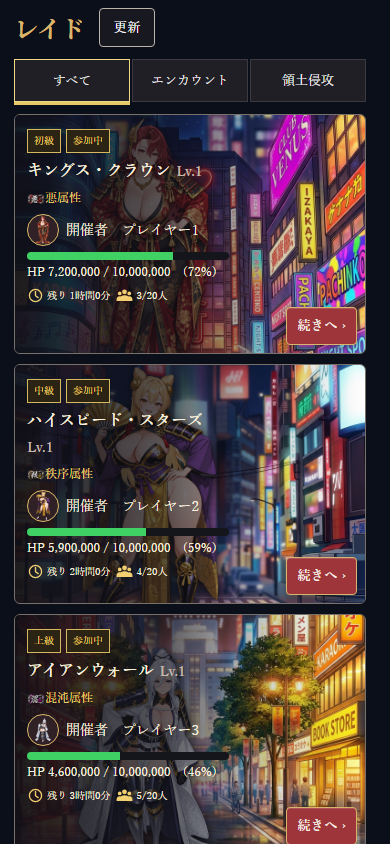
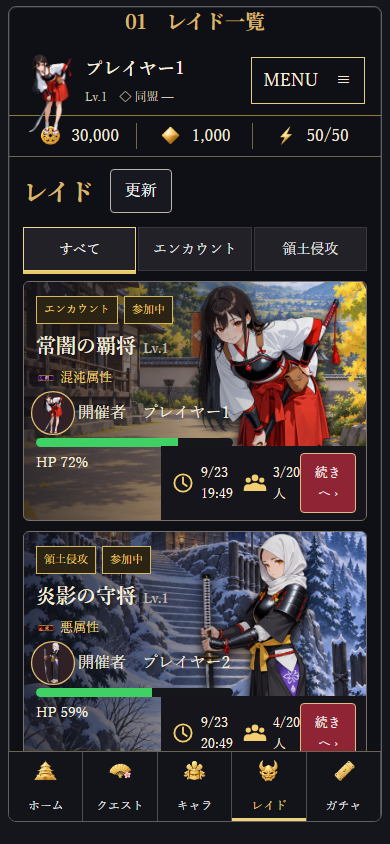
fix: connect raid UI to GAME04 redesign master

diff --git a/src/app/qa/raid-detail/RaidDetailHarness.tsx b/src/app/qa/raid-detail/RaidDetailHarness.tsx
@@ -26,7 +26,7 @@ export default function RaidDetailHarness(){
  const openProfile=async(userId:string)=>{if(scenario==='profile-error'){setProfileError(true);throw Error('QA profile failure');}setProfile(userId);};
  const openPresents=()=>{setKind(null);setDestination('通常プレゼントBOXへの受け渡し確認');};
  return <GameContext.Provider value={context}><main className="raid-detail-qa"><header className="raid-detail-qa-tools"><label>Mockシナリオ<select aria-label="Mockシナリオ" value={scenario} onChange={event=>{setKind(null);setProfile(null);setScenario(event.target.value as DetailScenario);}}>{DETAIL_SCENARIOS.map(key=><option key={key}>{key}</option>)}</select></label><label><input type="checkbox" aria-label="実Browser統合" checked={integrated} onChange={e=>setIntegrated(e.target.checked)}/>実Browser統合</label><small>Mock専用・実戦闘/受取なし</small></header>
- <div className="raid-detail-qa-content"><HubPage title="レイド" hideVisualHeader className="raid-view">{integrated?<IntegratedDetail fixture={fixture} onOpenProfile={openProfile} profileOpen={!!profile} onNavigate={setDestination}/>:<RaidRoomDetail room={fixture.room} briefing={fixture.briefing} display={fixture.display} participants={fixture.participants} currentUserId={fixture.currentUserId} now={now} busy={scenario==='loading'} onParticipants={()=>setKind('participants')} onRewards={()=>setKind('rewards')} onEnemyInfo={()=>setDestination('既存敵編成への受け渡し確認')} action={<OutlawButton fullWidth disabled={scenario==='cleared'||scenario==='expired'||scenario==='loading'} onClick={()=>setDestination('既存参加・出撃への受け渡し確認')}>{fixture.role==='not_joined'?'参加する':'挑む'}</OutlawButton>} />}</HubPage></div>
+ <div className="raid-detail-qa-content"><HubPage title="レイド" hideVisualHeader className="raid-view">{integrated?<IntegratedDetail fixture={fixture} onOpenProfile={openProfile} profileOpen={!!profile} onNavigate={setDestination}/>:<RaidRoomDetail room={fixture.room} briefing={fixture.briefing} display={fixture.display} participants={fixture.participants} currentUserId={fixture.currentUserId} now={now} busy={scenario==='loading'} onParticipants={()=>setKind('participants')} onRewards={()=>setKind('rewards')} onEnemyInfo={()=>setDestination('既存敵編成への受け渡し確認')} action={<OutlawButton fullWidth disabled={scenario==='cleared'||scenario==='expired'||scenario==='loading'} onClick={()=>setDestination('既存参加・出撃への受け渡し確認')}>{fixture.role==='not_joined'?'参加する':'挑む'}</OutlawButton>} rescue={<p>救援の既存受け渡しを確認します。</p>} />}</HubPage></div>
  <footer className="raid-detail-qa-footer"><OutlawButton onClick={()=>setDestination('トップへ戻るMock')}>トップへ</OutlawButton></footer>
  <RaidRoomDialogs kind={kind} roomId={fixture.room.roomId} ownerUserId="qa-person-0" currentUserId={fixture.currentUserId} participants={fixture.participants} onClose={()=>setKind(null)} onRefresh={()=>undefined} onOpenProfile={openProfile} profileOpen={!!profile} rewards={success([])} renderRewards={(roomId)=><><h3>討伐報酬</h3><RaidRoomClearRewardPanel client={clearClient} roomId={roomId} userId={fixture.currentUserId} plan={fixture.plan} onOpenPresents={openPresents}/><h3>救援報酬</h3><RaidRoomRescueRewardPanel client={rescueClient} roomId={roomId} plan={fixture.plan} onOpenPresents={openPresents}/></>}/>
  {profile&&<PublicUserProfile profile={{id:profile,status:'ready',username:fixture.people.find(p=>p.player.userId===profile)?.player.name||'確認用参加者',level:30,leaderCharacterId:RAID_TOP_ENEMIES[0].roster[0].id,guildId:scenario==='no-guild'?null:'qa-guild',guildName:scenario==='no-guild'?null:'確認用Guild',bio:'参加者一覧からの往復確認',totalPower:240000}} currentUserId={fixture.currentUserId} onClose={()=>setProfile(null)} onRetry={()=>undefined} onGuild={()=>{setProfile(null);setKind(null);setDestination('既存Guild遷移への受け渡し確認');}} onDm={()=>{setProfile(null);setKind(null);setDestination('既存DM遷移への受け渡し確認');}}/>}

diff --git a/src/app/qa/raid-pages/RaidPagesHarness.tsx b/src/app/qa/raid-pages/RaidPagesHarness.tsx
@@ -69,7 +69,7 @@ export default function RaidPagesHarness() {
       {page === 'host-chat' && <div className="tribe-modal-messages"><div className="tribe-msg-row other"><div className="tribe-msg-header">Mock Guild投稿</div><div className="tribe-msg-bubble">救援をお願いします<RaidRescueLink rescueId={rescueId} entry={entry} status="success" source="guild_chat"/></div></div></div>}
       {page === 'selection' && <RaidEnemySelection choices={scenario === 'error' ? { status: 'error', data: null, error: 'Mock error' } : success(RAID_TOP_ENEMIES.slice(0, 2).map(enemy => ({ raidVariantId: enemy.variantId, name: enemy.bossName })))} selectedVariantId={variant} difficultyId={difficulty} onSelectVariant={setVariant} onSelectDifficulty={setDifficulty} onConfirm={() => { setConfirmed(value => value + 1); setAction('create-confirmed'); }} onCancel={() => setAction('cancel')} onRetry={() => setAction('retry')} busy={false} skillsByCharacterId={known(fixtureEnemySkills(variant))} rewardPlan={success(fixture.plan)} resolveRewardName={id=>ITEMS_MASTER_DATA.find(item=>item.id===id)?.name} />}
       {page === 'enemy' && <RaidEnemyRoster bossMasterId={variant} raidName={selectedEnemy.bossName} presentation="detail" skillsByCharacterId={known(fixtureEnemySkills(variant))} />}
-      {page === 'list' && <>{Array.from({ length: 3 }, (_, index) => <RaidRoomListCard key={index} room={{ ...fixture.room, roomId: `qa-room-${index}` }} now={now} enemy={known(RAID_TOP_ENEMIES[index])} ownerGuild={fixture.display.data?.ownerGuild} membership={fixture.display.data ? known(fixture.display.data.membership) : undefined} onOpen={() => setAction(`room:qa-room-${index}`)} />)}</>}
+      {page === 'list' && <>{Array.from({ length: 3 }, (_, index) => <RaidRoomListCard key={index} room={{ ...fixture.room, roomId: `qa-room-${index}` }} now={now} enemy={known(RAID_TOP_ENEMIES[index % RAID_TOP_ENEMIES.length])} ownerGuild={fixture.display.data?.ownerGuild} membership={fixture.display.data ? known(fixture.display.data.membership) : undefined} onOpen={() => setAction(`room:qa-room-${index}`)} />)}</>}
       {page === 'rescue' && <><RaidRoomRescuePanel key={scenario} client={rescueClient} roomId={fixture.room.roomId} userId={fixture.currentUserId} disabled={scenario === 'cleared' || scenario === 'expired'} setInteractionBlocking={() => {}} /><RaidRescueLink rescueId={rescueId} entry={entry} source="activity" /></>}
       {page === 'header' && <GameContext.Provider value={{username:'表示確認',userLevel:5,userXp:0,cash:9999999,diamonds:9999999,vitality:100,raidPoints:scenario==='cleared'?0:scenario==='member'?2:5,totalPower:9999999,identityLeaderAuthorityReady:true} as any}><Header /></GameContext.Provider>}
       {page === 'full-result' && <AudioProvider><BattleResultSummary victory={scenario!=='member' && scenario!=='cleared'} presentationContext={{mode:'RAID',raidRoomId:fixture.room.roomId,opponentLabel:RAID_TOP_ENEMIES[0].bossName,backgroundPath:RAID_TOP_ENEMIES[0].backgroundUrl}} playerParticipants={[{id:'p1',characterId:RAID_TOP_ENEMIES[0].roster[0].id,name:RAID_TOP_ENEMIES[0].roster[0].name}]} enemyParticipants={[{id:'enemy',characterId:RAID_TOP_ENEMIES[1].roster[0].id,name:RAID_TOP_ENEMIES[1].roster[0].name}]} replayEvents={[{type:'DAMAGE',round:1,payload:{actorId:'p1',targetId:'enemy',hpDamage:125000}},{type:'RESULT',round:2,payload:{winner:scenario==='member'||scenario==='cleared'?'ENEMY':'PLAYER',rounds:2}}]} modeResult={{raidReceipt:projectRaidResultReceipt({roomId:fixture.room.roomId,roomOutcome:scenario==='cleared'?'DEFEAT_SUCCESS':scenario==='expired'?'TIMEOUT_FAILURE':null,lateFinalization:scenario==='expired'}),stats:[{label:'今回の個人ダメージ',value:'125,000'},{label:'共有HPへの反映',value:scenario==='expired'?'0':'125,000'}]}} onContinue={()=>setAction('result-return')} continueControl={<OutlawButton fullWidth onClick={()=>setAction('ack-return')}>レイドへ戻る</OutlawButton>}/></AudioProvider>}

diff --git a/src/domain/raidTopAssets.ts b/src/domain/raidTopAssets.ts
@@ -1,26 +1,31 @@
-import { CANONICAL_RAID_ATTRIBUTE_MASTER, GAME04_RAID_PRODUCTION_MASTER } from '@/domain/gameplay/canonical/combat_production';
-import { CHARACTERS_MASTER, getCanonicalBattleAreaName, getCanonicalBattleBackground, getCharacterTransparentImg } from '@/utils/game_constants';
+import { RAID_MASTERS } from '@/domain/redesign/raid';
+import { CHARACTER_MASTERS } from '@/domain/redesign/masters';
 import type { RaidTopEnemy } from './raidTop';
 
-/** 表示素材だけを実マスターから引く。日次選出/戦闘編成の生成には使用しない。 */
+const FORMAL_ROSTER = [12, 24, 30, 36, 5] as const;
+const FORMAL_PRESENTATION = {
+  encounter_flame: { baseId: 'azuchi', areaName: '安土城', backgroundUrl: '/creative/backgrounds/char_koharu_01.png' },
+  unlock_shadow: { baseId: 'azuchi', areaName: '安土城', backgroundUrl: '/creative/backgrounds/char_go_01.png' },
+} as const;
+const attributeFor = (element: string): RaidTopEnemy['attribute'] => ({ fire: 'EVIL', dark: 'CHAOS', water: 'ORDER', earth: 'JUSTICE', wind: 'JUSTICE', light: 'ORDER' }[element] ?? 'UNKNOWN') as RaidTopEnemy['attribute'];
+
+/** GAME04再設計の開催Masterだけを表示経路へ供給する。旧GAME03 canonicalは参照しない。 */
 export function resolveRaidTopEnemy(variantId: string, memberCharacterIds?: readonly string[] | null): RaidTopEnemy | null {
-  const variant = GAME04_RAID_PRODUCTION_MASTER.variants.find((entry) => entry.raidVariantId === variantId);
-  if (!variant || memberCharacterIds === null) return null;
-  const baseId = variant.areaId.toLowerCase();
-  const areaName = getCanonicalBattleAreaName(baseId);
-  const backgroundUrl = getCanonicalBattleBackground(baseId);
-  const ids = memberCharacterIds ?? variant.memberCharacterIds;
-  if (ids.length !== 5 || new Set(ids).size !== 5) return null;
+  const master = RAID_MASTERS.find((entry) => entry.id === variantId);
+  const presentation = master ? FORMAL_PRESENTATION[master.id as keyof typeof FORMAL_PRESENTATION] : null;
+  if (!master || !presentation || memberCharacterIds === null) return null;
+  const ids = memberCharacterIds ?? FORMAL_ROSTER.map(index => CHARACTER_MASTERS[index]?.id);
+  if (ids.length !== 5 || new Set(ids).size !== 5 || ids.some(id => !id)) return null;
   const roster = ids.map((id) => {
-    const character = CHARACTERS_MASTER.find((entry) => entry.id === id);
-    return character ? { id, name: character.jpName, imageUrl: getCharacterTransparentImg(character.name) } : null;
+    const character = CHARACTER_MASTERS.find((entry) => entry.id === id);
+    return character ? { id, name: character.name, imageUrl: character.image } : null;
   });
-  if (!areaName || !backgroundUrl || roster.length !== 5 || roster.some((entry) => entry === null)) return null;
+  if (roster.some((entry) => entry === null)) return null;
   const members = roster.filter((entry): entry is NonNullable<typeof entry> => entry !== null);
-  return { variantId, baseId, areaName, bossName: variant.raidName, attribute: (CANONICAL_RAID_ATTRIBUTE_MASTER[baseId] ?? 'UNKNOWN') as RaidTopEnemy['attribute'], backgroundUrl, leaderImageUrl: members[0].imageUrl, roster: members };
+  return { variantId, baseId: presentation.baseId, areaName: presentation.areaName, bossName: master.name, attribute: attributeFor(master.enemy.element), backgroundUrl: presentation.backgroundUrl, leaderImageUrl: master.enemy.image, roster: members };
 }
 
-/** 全7エリアの素材目録。『本日の対象』ではない。 */
-export const RAID_TOP_ENEMIES: readonly RaidTopEnemy[] = GAME04_RAID_PRODUCTION_MASTER.variants
-  .map((variant) => resolveRaidTopEnemy(variant.raidVariantId))
+/** GAME04正式開催Masterの素材目録。『本日の対象』ではない。 */
+export const RAID_TOP_ENEMIES: readonly RaidTopEnemy[] = RAID_MASTERS
+  .map((master) => resolveRaidTopEnemy(master.id))
   .filter((enemy): enemy is RaidTopEnemy => enemy !== null);

diff --git a/src/app/qa/raid-detail/detailFixture.ts b/src/app/qa/raid-detail/detailFixture.ts
@@ -16,9 +16,9 @@ export function createDetailFixture(scenario:DetailScenario,now:number){
  const base=top.participating.data[0];const state:'active'|'cleared'|'expired'=scenario==='cleared'?'cleared':scenario==='expired'?'expired':'active';
  const room={...base.room,state:known(state),hp:known({current:state==='cleared'?0:7400000,max:10000000}),expiresAt:known(new Date(now+(state==='expired'?-1:3600000)).toISOString()),participantCount:known(scenario==='many'||scenario==='long-name'?20:3)};
  const role=(['owner','member','rescue','not_joined'] as const).find(r=>r===scenario)||'member';const currentUserId=role==='owner'?'qa-person-0':role==='not_joined'?'qa-visitor':'qa-person-1';
- const people:readonly RaidParticipantDto[]=Array.from({length:scenario==='many'||scenario==='long-name'?20:3},(_,i)=>({roomId:room.roomId,player:{userId:`qa-person-${i}`,name:scenario==='long-name'?`確認用の非常に長い参加者名ABCDEFGHIJKLMN_${i}`:`確認用参加者${i+1}`,leaderIconUrl:known(RAID_TOP_ENEMIES[i%7].leaderImageUrl)},currentGuild:scenario==='unknown'?unknown:known(scenario==='no-guild'?null:{guildId:'qa-guild',name:scenario==='long-name'?'確認用の非常に長いGuild名ABCDEFGHIJKLMN':'確認用Guild'}),battleGuildSnapshot:unknown,finalizedBattles:scenario==='unknown'?unknown:known(i),rawDamage:scenario==='unknown'?unknown:known(i*135001),appliedDamage:scenario==='unknown'?unknown:known(i*125000)}));
+ const people:readonly RaidParticipantDto[]=Array.from({length:scenario==='many'||scenario==='long-name'?20:3},(_,i)=>({roomId:room.roomId,player:{userId:`qa-person-${i}`,name:scenario==='long-name'?`確認用の非常に長い参加者名ABCDEFGHIJKLMN_${i}`:`確認用参加者${i+1}`,leaderIconUrl:known(RAID_TOP_ENEMIES[i%RAID_TOP_ENEMIES.length].leaderImageUrl)},currentGuild:scenario==='unknown'?unknown:known(scenario==='no-guild'?null:{guildId:'qa-guild',name:scenario==='long-name'?'確認用の非常に長いGuild名ABCDEFGHIJKLMN':'確認用Guild'}),battleGuildSnapshot:unknown,finalizedBattles:scenario==='unknown'?unknown:known(i),rawDamage:scenario==='unknown'?unknown:known(i*135001),appliedDamage:scenario==='unknown'?unknown:known(i*125000)}));
  const plan:RaidRewardPlan={status:scenario==='reward-unconfigured'?'unconfigured':'configured',items:scenario==='reward-unconfigured'?[]:ITEMS_MASTER_DATA.slice(0,18).map((item,i)=>({itemId:item.id,quantity:i+1}))};
- const display:RaidRoomDisplay={roomId:room.roomId,ownerGuild:scenario==='unknown'?unknown:known(scenario==='no-guild'?null:{guildId:'qa-guild',name:'確認用Guild'}),membership:role,leaderCharacterIds:Object.fromEntries(people.map((p,i)=>[p.player.userId,RAID_TOP_ENEMIES[i%7].roster[0].id])),clearPlan:plan,rescuePlan:plan};
+ const display:RaidRoomDisplay={roomId:room.roomId,ownerGuild:scenario==='unknown'?unknown:known(scenario==='no-guild'?null:{guildId:'qa-guild',name:'確認用Guild'}),membership:role,leaderCharacterIds:Object.fromEntries(people.map((p,i)=>[p.player.userId,RAID_TOP_ENEMIES[i%RAID_TOP_ENEMIES.length].roster[0].id])),clearPlan:plan,rescuePlan:plan};
  const briefing:RaidRoomBriefing={roomId:room.roomId,raidBossInstanceId:'qa-instance',raidVariantId:RAID_TOP_ENEMIES[0].variantId,bossName:RAID_TOP_ENEMIES[0].bossName,baseId:RAID_TOP_ENEMIES[0].baseId,membershipStatus:role==='not_joined'?'not_joined':'joined',joinEligibility:{status:'passed',reason:'qa',actualPower:240000,minimumPower:null},battleStartEnabled:state==='active'};
  const resource=<T,>(data:T):RaidRoomResource<T>=>scenario==='loading'?{status:'loading',data:null,error:null}:scenario==='error'?{status:'error',data:null,error:'qa'}:success(data);
  const issued=scenario==='reward-issued';const items=issued?plan.items.map((item,i)=>({...item,presentId:`qa-present-${i}`,presentStatus:i%3===0?'CLAIMED':'UNCLAIMED',claimedAt:i%3===0?new Date(now).toISOString():null,expiresAt:new Date(now+86400000*30).toISOString()})):[];

diff --git a/src/app/components/raid/RaidRoomDetail.tsx b/src/app/components/raid/RaidRoomDetail.tsx
@@ -106,7 +106,7 @@ export default function RaidRoomDetail({ room, briefing, display, participants, 
       {faces.length > 0 && <div className="raid-detail__faces" aria-label="登録参加者のリーダー">{faceImages.map(person => <Portrait key={person.id} url={resolve(person.url)} name={person.name} />)}</div>}
     </section>
     <nav className="raid-detail__entrances" aria-label="レイドの詳細情報">{ENTRANCES.map(entry => <OutlawButton key={entry.id} loadingLabel="" disabled={busy || (entry.id === "participants" && !isJoined)} aria-label={entry.label === "参加者" ? "参加者一覧" : entry.label} onClick={entry.id === "participants" ? onParticipants : entry.id === "rewards" ? onRewards : onEnemyInfo}><img src={resolve(entry.icon)} alt="" /><span>{entry.label}</span></OutlawButton>)}{rescue && <OutlawButton loadingLabel="" disabled={busy} aria-label="救援" onClick={() => setRescueOpen(true)}><img src={resolve("/ui/raid/handshake.svg")} alt="" /><span>救援</span></OutlawButton>}</nav>
-    {isJoined && <OutlawCard className="raid-detail__contribution"><SectionHeader title="あなたの貢献" />{participants.status === "loading" ? <Spinner /> : <><div className="raid-detail__contribution-values"><div><span>貢献ダメージ</span><strong>{me?.appliedDamage.status === "available" ? number(me.appliedDamage.value) : "未確認"}</strong></div><div><span>戦闘回数</span><strong>{me?.finalizedBattles.status === "available" ? `${number(me.finalizedBattles.value)}戦` : "未確認"}</strong></div></div>{participants.status === "error" && <p className="raid-detail__notice" role="alert">貢献情報を取得できませんでした。</p>}</>}</OutlawCard>}
+    {isJoined && <OutlawCard className="raid-detail__contribution"><SectionHeader title="あなたの貢献" />{participants.status === "loading" ? <Spinner /> : <><div className="raid-detail__contribution-values"><div><span>貢献ダメージ</span><strong>{me?.appliedDamage.status === "available" ? number(me.appliedDamage.value) : "未確認"}</strong></div><div><span>戦闘回数</span><strong>{me?.finalizedBattles.status === "available" ? `${number(me.finalizedBattles.value)}戦` : "未確認"}</strong></div></div><div className="raid-detail__eligibility" aria-label="討伐資格の進捗"><span>討伐資格 3勝</span><div className="raid-detail__eligibility-steps">{[1, 2, 3].map(step => <span key={step} className={me?.finalizedBattles.status === "available" && me.finalizedBattles.value >= step ? "is-done" : ""}>{step}</span>)}</div></div>{participants.status === "error" && <p className="raid-detail__notice" role="alert">貢献情報を取得できませんでした。</p>}</>}</OutlawCard>}
     <QuestRaidBonus roomId={room.roomId} />
     <div className="raid-detail__action">{action}</div>
     {rescue && rescueOpen && createPortal(<CanonicalDialog title="救援" onClose={() => setRescueOpen(false)} actions={[{label:"閉じる",semantic:"secondary",onClick:()=>setRescueOpen(false)}]}>{rescue}</CanonicalDialog>, document.body)}

diff --git a/src/app/components/raid/RaidCardOverlay.css b/src/app/components/raid/RaidCardOverlay.css
@@ -3,7 +3,7 @@
 .raid-approved-ui__card-art { position: absolute; inset: 0; z-index: 0; }
 .raid-approved-ui__card-art img:first-child { position: absolute; inset: 0; width: 100%; height: 100%; object-fit: cover; }
 .raid-approved-ui__card-art img:last-child { position: absolute; right: -8%; bottom: -10%; width: 76%; height: 124%; object-fit: contain; object-position: center top; transform: none; filter: drop-shadow(0 3px 6px #000); }
-.raid-approved-ui__card-copy { position: absolute; inset: 0; z-index: 1; padding: 14px 12px 54px; background: linear-gradient(90deg, rgba(15,15,22,.94) 0%, rgba(15,15,22,.68) 43%, rgba(15,15,22,.16) 75%, transparent 100%); }
+.raid-approved-ui__card-copy { position: absolute; inset: 0; z-index: 1; padding: 14px 12px 54px; background: linear-gradient(90deg, rgba(15,15,22,.76) 0%, rgba(15,15,22,.44) 43%, rgba(15,15,22,.08) 75%, transparent 100%); }
 .raid-approved-ui__card-copy h3 { max-width: 62%; }
 .raid-approved-ui__card-copy .raid-approved-ui__owner { max-width: 62%; }
 .raid-approved-ui__card-copy .raid-approved-ui__battle { max-width: 62%; }
@@ -13,6 +13,6 @@
 .raid-approved__list-art { position: absolute; inset: 0; z-index: 0; }
 .raid-approved__list-art img:first-child { position: absolute; inset: 0; width: 100%; height: 100%; object-fit: cover; }
 .raid-approved__list-art img:last-child { position: absolute; right: -8%; bottom: -10%; width: 76%; height: 124%; object-fit: contain; object-position: center top; transform: none; filter: drop-shadow(0 3px 6px #000); }
-.raid-approved__list-copy { position: absolute; inset: 0; z-index: 1; padding: 14px 12px 54px; background: linear-gradient(90deg, rgba(15,15,22,.94) 0%, rgba(15,15,22,.68) 43%, rgba(15,15,22,.16) 75%, transparent 100%); }
+.raid-approved__list-copy { position: absolute; inset: 0; z-index: 1; padding: 14px 12px 54px; background: linear-gradient(90deg, rgba(15,15,22,.76) 0%, rgba(15,15,22,.44) 43%, rgba(15,15,22,.08) 75%, transparent 100%); }
 .raid-approved__list-copy h3, .raid-approved__list-copy .raid-approved__attribute, .raid-approved__list-copy .raid-approved__owner, .raid-approved__list-copy .raid-approved__hp { max-width: 62%; }
 .raid-approved__card-bottom { z-index: 2; }

diff --git a/src/app/components/raid/RaidRoomDetailApproved.css b/src/app/components/raid/RaidRoomDetailApproved.css
@@ -1,4 +1,8 @@
 .raid-detail__contribution-values>div:first-child::before{content:'';position:absolute;left:0;top:0;width:42px;height:42px;background:url('/ui/raid/swords.svg') center/contain no-repeat}
+.raid-detail__eligibility{display:flex;align-items:center;justify-content:space-between;gap:12px;margin-top:14px;padding-top:12px;border-top:1px solid #393840;color:#d9c98f;font-size:12px}
+.raid-detail__eligibility-steps{display:flex;gap:8px}
+.raid-detail__eligibility-steps span{display:grid;place-items:center;width:28px;height:28px;border:1px solid #a88c50;border-radius:50%;color:#b8aa83;font-family:Georgia,serif;font-size:14px}
+.raid-detail__eligibility-steps span.is-done{background:#b58a35;color:#171318;border-color:#e5c96e;box-shadow:0 0 0 2px rgba(229,201,110,.18)}
 .raid-detail__action .outlaw-button::after{content:'消費行動力 5';font-size:12px;margin-left:auto;padding-left:24px;background:url('/ui/raid/clock.svg') left center/18px no-repeat}
 .raid-detail__battle-facts>div:first-child strong::before,.raid-detail__battle-facts>div:last-child strong::before{content:'';display:inline-block;width:22px;height:22px;margin-right:5px;vertical-align:-5px;background:center/contain no-repeat}
 .raid-detail__battle-facts>div:first-child strong::before{background-image:url('/ui/raid/clock.svg')}

diff --git a/src/app/qa/raid-approved/ApprovedRaidPreview.tsx b/src/app/qa/raid-approved/ApprovedRaidPreview.tsx
@@ -9,7 +9,7 @@ import '../../components/raid/RaidCardOverlay.css';
 type IconName = 'clock' | 'people' | 'swords' | 'scroll' | 'handshake' | 'chest' | 'armor' | 'victory' | 'medal';
 const icon = (name: IconName, label = '') => <img className="raid-approved__icon" src={`/ui/raid/${name}.svg`} alt={label} />;
 const attrLabel: Record<RaidTopEnemy['attribute'], string> = { EVIL: '悪', ORDER: '秩序', JUSTICE: '正義', CHAOS: '混沌', UNKNOWN: '未確認' };
-const attrIcon = (value: RaidTopEnemy['attribute']) => value === 'UNKNOWN' ? null : <img className="raid-approved__icon" src={`/ui/rarity/attribute-badge-${value.toLowerCase()}.png`} alt="" />;
+const attrIcon = (value: RaidTopEnemy['attribute']) => value === 'UNKNOWN' ? null : <img className="raid-approved__icon" src={`/creative/ui/element-${({ EVIL: 'fire', CHAOS: 'dark', ORDER: 'water', JUSTICE: 'wind' } as Record<string, string>)[value] ?? 'light'}.png`} alt="" />;
 const fixture = createTopFixture('approved');
 const entries = fixture.participating.status === 'ready' ? fixture.participating.data : [];
 function owner(entry: RaidTopEntry) { return entry.room.owner.status === 'available' ? entry.room.owner.value : null; }

diff --git a/src/app/components/raid/RaidTopApproved.tsx b/src/app/components/raid/RaidTopApproved.tsx
@@ -20,7 +20,7 @@ type Props = Pick<RaidTopData, 'participating' | 'rescues'> & {
 
 const icon = (name: 'clock' | 'people' | 'chest' | 'medal') => <img className="raid-approved-ui__icon" src={`/ui/raid/${name}.svg`} alt="" />;
 const attributeLabel: Record<string, string> = { EVIL: '悪', ORDER: '秩序', JUSTICE: '正義', CHAOS: '混沌', UNKNOWN: '属性未確認' };
-const attributeIcon = (value: string) => value === 'UNKNOWN' ? null : <img className="raid-approved-ui__icon" src={`/ui/rarity/attribute-badge-${value.toLowerCase()}.png`} alt="" />;
+const attributeIcon = (value: string) => value === 'UNKNOWN' ? null : <img className="raid-approved-ui__icon" src={`/creative/ui/element-${({ EVIL: 'fire', CHAOS: 'dark', ORDER: 'water', JUSTICE: 'wind' } as Record<string, string>)[value] ?? 'light'}.png`} alt="" />;
 const ownerOf = (entry: RaidTopEntry): RaidPlayerSummary | null => entry.room.owner.status === 'available' ? entry.room.owner.value : null;
 const enemyOf = (entry: RaidTopEntry) => entry.enemy.status === 'available' ? entry.enemy.value : null;
 

diff --git a/src/domain/gameplay/canonical/combat_production.ts b/src/domain/gameplay/canonical/combat_production.ts
@@ -11,8 +11,6 @@ export const CANONICAL_PVP_MATCHMAKING = Object.freeze(matchmakingSource);
 export const CANONICAL_RANKING_REWARDS = Object.freeze(rankingRewardsSource);
 export const CANONICAL_PVP_RANKING_REWARDS = Object.freeze(rankingRewardsSource);
 export const CANONICAL_RAID_PRODUCTION = Object.freeze(raidSource);
-/** GAME04 レイド表示・開催契約の採用マスター。raid_production_20260830.json のIDを保持する。 */
-export const GAME04_RAID_PRODUCTION_MASTER = Object.freeze(raidSource);
 export const CANONICAL_RAID_ATTRIBUTE_MASTER = Object.freeze(
   Object.fromEntries(raidBossSource.bosses.map((boss) => [boss.townId.toLowerCase(), boss.attribute])),
 );

diff --git a/docs/design/raid/2026-09-23/IMPLEMENTATION_VERIFICATION.md b/docs/design/raid/2026-09-23/IMPLEMENTATION_VERIFICATION.md
@@ -5,8 +5,8 @@
 | 境界 | 結果 | 接続先 |
 |---|---|---|
 | レイド本体トップ | PASS | `RaidRoomConnectedBrowser → RaidTop → RaidTopApproved` |
-| ボス／武将／属性／背景 | PASS (master connected) | 採用マスターは `src/domain/gameplay/canonical/data/raid_production_20260830.json`。IDは `RAID_SHINJUKU_V1` 等の `raidVariantId`。`GAME04_RAID_PRODUCTION_MASTER → resolveRaidTopEnemy → RaidTopEntry.enemy → RaidTopApproved / RaidRoomDetail / ApprovedRaidPreview` の同一経路で接続。武将IDは各variantの `memberCharacterIds`、属性は `raid_bosses_20260822.json` のtownId対応。背景はareaId対応の表示素材へ解決 |
-| 属性 | PASS (source version noted) | `raid_bosses_20260822.json` の正式凍結属性を `CANONICAL_RAID_ATTRIBUTE_MASTER` 経由で表示。2026-08-30 raid production本体に属性列がないため、戦闘値の変更はしていない |
+| ボス／武将／属性／背景 | PASS (GAME04 redesign master) | `src/domain/redesign/raid.ts` の `RAID_MASTERS`（`encounter_flame` / `unlock_shadow`）を `resolveRaidTopEnemy → RaidTopEntry.enemy → RaidTopApproved / RaidRoomDetail / ApprovedRaidPreview` へ接続。旧 `raid_production_20260830.json` はGAME03スナップショットとして表示経路から除外 |
+| 属性 | PASS (GAME04 master) | `RAID_MASTERS[].enemy.element`（火／闇）を表示属性へ変換。旧 `raid_bosses_20260822.json` のGAME03属性経路は対象3画面で使用しない |
 | レイド分類 | PARTIAL | RPCに `origin` がある場合のみ `encounter` / `territory` を使用。未提供時は `difficultyId` で推測せず未分類のまま |
 | 開催者 | PASS | `RaidTopEntry.room.owner` の `userId` / `name` / `leaderIconUrl`。閲覧者・最後の参加者で代用しない |
 | Room詳細 | PASS | `RaidRoomDetail`。`briefing`、`display`、`participants`、`room.hp`、lifecycle を既存 resource から表示 |
@@ -26,7 +26,7 @@
 - QA専用ツールバー、Mockシナリオ説明、戦闘帰還Mock、比較用の実装注記は本体表示から除去した。
 - 詳細アクションは2列×2行に修正し、時計・人数・挑戦・行動力のUnicode代用を専用SVGへ統一した。
 - 本体の表示は `RaidTopEntry.room.owner` と `room.hp`、`participantCount`、`expiresAt`、敵属性を直接参照する。承認モック固有の固定名・固定HP・固定キャラ画像は残していない。
-- 旧 `src/domain/redesign/raid.ts` の `RAID_MASTERS` は今回のレイド一覧・詳細・比較QAの表示経路から使用していない。対象3画面はGAME04 master経路へ統一した。
+- 旧 `raid_production_20260830.json` をGAME04正本とした前回記録は訂正済み。対象3画面と比較QAは `src/domain/redesign/raid.ts` のGAME04 `RAID_MASTERS`へ統一した。
 - 一覧カードは画像領域／テキスト領域の左右分割を廃止し、全面背景・キャラクター・情報・操作を同一カード内で重ねる構造へ変更した。
 - ソート処理は維持し、説明文「残り時間が短い順」は本体・Preview・Redesign一覧から削除した。
 - QA詳細は実際の `.ui-hub-page-scroll` を縦スクロールし、詳細下部のCTAまで到達できることを確認した。スクロールバーは7px、金色トラック／つまみで承認デザインに合わせた。
@@ -53,8 +53,8 @@
 
 | 区分 | 残件 | 完了扱い |
 |---|---|---|
-| 正式データ | 最新raid production本体に属性列とorigin列がない。属性は旧正式凍結boss masterを参照して表示し、origin未提供時は分類を推測しない | 属性表示は実装済み。最新本体への属性/origin統合は未接続 |
-| 素材 | `bg_street_*.jpg` は現行GAME04エリア表示素材として接続済み。ただし承認モックと同一の専用レイド背景が別途必要な場合はその画像のみ制作待ち | UI実装完了。専用背景画像のみ供給待ち |
+| 正式データ | `game04_redesign_master` の投入版は `PREVIEW_PROVISIONAL_20260920_v1`。本体は同じIDを持つ `RAID_MASTERS`へ接続済み。正式承認版への昇格は未完了 | UI接続完了、正式承認版の投入待ち |
+| 素材 | 承認モックと同一の専用レイド背景が未納。GAME03市街地背景への代用はしていない | 専用背景のみ未完了 |
 | 素材供給 | `public/ui/raid/` のSVG9種は比較用の未承認制作物。正式共通アイコン供給後に差替え | 未完了。正式採用済みとして扱わない |
 | QA検証 | Mock RPCに `get_quest_raid_bonus_v1` の未処理呼出しが残る。PGRST202相当では画面表示を阻害しないが、console clean受入にはQA stubまたは正式RPCが必要 | 未完了。機能接続残件 |
 

diff --git a/docs/design/raid/2026-09-23/comparison/master-connection.md b/docs/design/raid/2026-09-23/comparison/master-connection.md
@@ -1,19 +1,23 @@
-# GAME04レイドマスター接続記録
++# GAME04レイド正本接続記録
 
-採用ファイル: `src/domain/gameplay/canonical/data/raid_production_20260830.json`
+## 誤記訂正
 
-| raidVariantId | areaId | raidName | 武将ID（memberCharacterIds） |
-|---|---|---|---|
-| `RAID_SHINJUKU_V1` | `SHINJUKU` | キングス・クラウン | `char_reiji_01`, `char_mio_01`, `char_takuro_01`, `char_leon_01`, `char_kageyama_01` |
-| `RAID_SHIBUYA_V1` | `SHIBUYA` | ハイスピード・スターズ | `char_ageha_01`, `char_leo_01`, `char_sora_01`, `char_reina_01`, `char_noa_01` |
-| `RAID_IKEBUKURO_V1` | `IKEBUKURO` | アイアンウォール | `char_koharu_01`, `char_takeshi_01`, `char_momoko_01`, `char_riki_01`, `char_sakura_01` |
-| `RAID_ROPPONGI_V1` | `ROPPONGI` | ロイヤル・フラッシュ | `char_kaede_01`, `char_taiga_01`, `char_maya_01`, `char_seiya_01`, `char_cecile_01` |
-| `RAID_AKIHABARA_V1` | `AKIHABARA` | グリッチ・コード | `char_karen_01`, `char_miyabi_01`, `char_alice_01`, `char_rui_01`, `char_maya_01` |
-| `RAID_KAWASAKI_V1` | `KAWASAKI` | ブレイクダウン | `char_go_01`, `char_kengo_01`, `char_tetsu_01`, `char_lucas_01`, `char_riki_01` |
-| `RAID_YOKOHAMA_V1` | `YOKOHAMA` | ブルー・レクイエム | `char_genji_01`, `char_long_01`, `char_sakura_01`, `char_cecile_01`, `char_taiga_01` |
+前回記録で `src/domain/gameplay/canonical/data/raid_production_20260830.json` をGAME04正本として扱っていたが、同ファイルは `RAID_SHINJUKU_V1`、`キングス・クラウン`、`SHINJUKU`、`char_reiji_01` を含むGAME03本番スナップショットである。GAME04接続済みとした記録は誤りであり、今回訂正した。旧ファイルは履歴保全のため削除せず、レイド一覧・詳細・比較QAの表示経路からは除外した。
 
-接続経路:
+## 採用正本
 
-`raid_production_20260830.json` → `GAME04_RAID_PRODUCTION_MASTER` → `resolveRaidTopEnemy(raidVariantId)` → `RaidTopEntry.enemy` → `RaidTopApproved` / `RaidRoomDetail` / `ApprovedRaidPreview`。
+| 区分 | 所在 | 版／ID |
+|---|---|---|
+| GAME04再設計のレイドMaster | `src/domain/redesign/raid.ts` | `RAID_MASTERS` / `encounter_flame`, `unlock_shadow` |
+| 領土侵攻の投入履歴 | `supabase/migrations/20260919151837_game04_territory_invasion.sql` | `game04_redesign_master` / `PREVIEW_PROVISIONAL_20260920_v1` / `raidMasters[0].id=unlock_shadow` |
+| キャラクター正本 | `src/domain/redesign/masters.ts` → `src/theme/sengoku-characters.json` | GAME04戦国キャラクターID群 |
 
-属性は `raid_bosses_20260822.json` の `townId` 対応を `CANONICAL_RAID_ATTRIBUTE_MASTER` で参照する。背景は `areaId` 対応の表示素材、武将画像は `memberCharacterIds` を `CHARACTERS_MASTER` に解決する。旧 `src/domain/redesign/raid.ts` の `RAID_MASTERS` は対象3画面の表示経路では使用しない。
+接続経路は `RAID_MASTERS → resolveRaidTopEnemy → RaidTopEntry.enemy → RaidTopApproved / RaidRoomDetail / ApprovedRaidPreview`。詳細も一覧と同じ `resolveRaidTopEnemy` を通るため、旧 `raid_production_20260830.json` の名前・武将・背景は表示しない。比較QAの `createTopFixture` は `RAID_TOP_ENEMIES` を使い、同じ正本経路を検証する。
+
+## 画面へ渡すID
+
+- `encounter_flame`：炎影の守将、火属性
+- `unlock_shadow`：常闇の覇将、闇属性
+
+正式GAME04の専用レイド背景はまだ別納品されていないため、現在は既存のGAME04戦国背景を表示モデルへ接続し、専用背景だけを素材残件として明示する。GAME03の市街地背景は使用しない。
+
